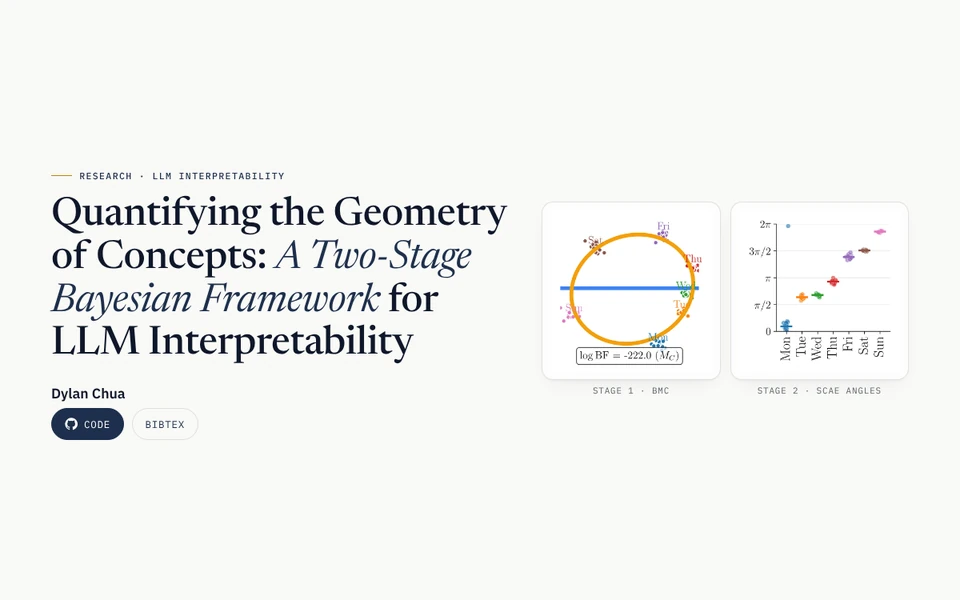
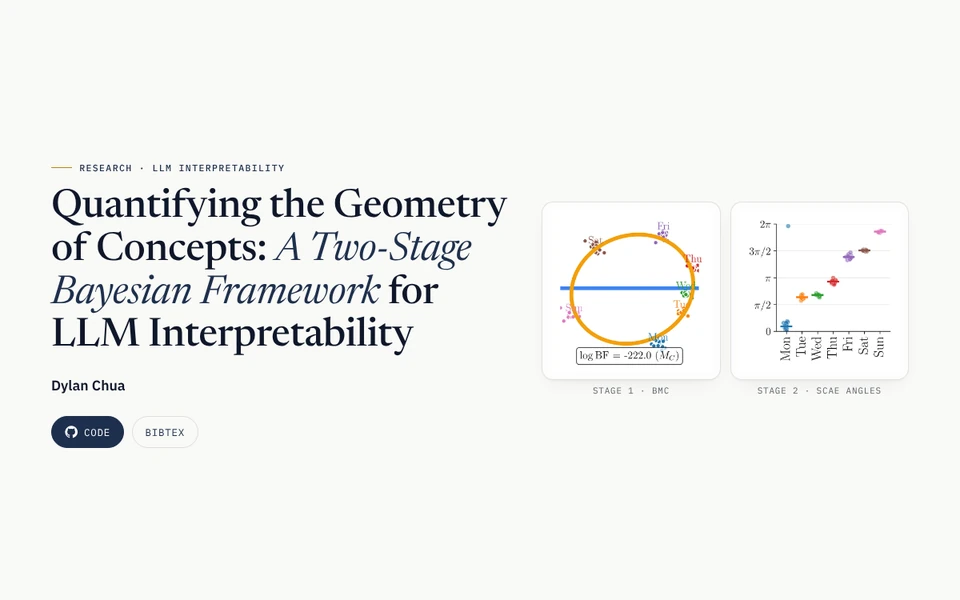
Update project page with content from the paper
Use the paper's abstract, synthetic (Table 1, 50 datasets) and LLM
(Table 2, Laplace/BIC and lambda sensitivity) results, the SCAE MAP
derivation and architecture figure, the discussion of why BMC favours
circular models, and the conclusion. Mark the size concept as
repository-only, finalise the BibTeX, and drop the affiliation
placeholder. The paper PDF itself is not added.

Claude-Session: https://claude.ai/code/session_0177LZe8kzwKYHQ6czokbSiz

Changed region(s): [[0.0312, 0.27, 0.5312, 0.6], [0.0312, 0.63, 0.1875, 0.75]]

diff --git a/docs/index.html b/docs/index.html
@@ -166,12 +166,16 @@ table { width: 100%; border-collapse: collapse; font-size: 0.95rem; }
 caption { caption-side: bottom; text-align: left; font-size: 0.85rem; color: var(--muted); padding: 0.75rem 1rem 0; }
 th, td { padding: 0.6rem 1rem; text-align: left; border-bottom: 1px solid var(--hairline); white-space: nowrap; }
 th { font-family: var(--mono); font-size: 0.7rem; font-weight: 500; letter-spacing: 0.1em; text-transform: uppercase; color: var(--navy); }
+th .katex, .label .katex, dt .katex { text-transform: none; }
 td.num { font-family: var(--mono); font-variant-numeric: tabular-nums; text-align: right; }
 th.num { text-align: right; }
 tr:last-child td { border-bottom: 0; }
 .verdict { display: inline-block; font-family: var(--mono); font-size: 0.7rem; letter-spacing: 0.06em; padding: 0.15rem 0.5rem; border-radius: 999px; }
 .v-c { background: rgba(243,156,18,0.18); color: #8a5300; }
 .v-l { background: rgba(59,130,246,0.14); color: #1d4ed8; }
+.v-x { background: rgba(15,23,42,0.07); color: rgba(15,23,42,0.7); }
+a.ref { font-family: var(--mono); font-size: 0.72rem; text-decoration: none; margin-left: 0.25rem; }
+.fig figcaption em { font-style: italic; }
 .group td { font-family: var(--mono); font-size: 0.7rem; letter-spacing: 0.12em; text-transform: uppercase; color: var(--gold); background: rgba(184,134,11,0.05); }
 
 /* ---------- figure explorer ---------- */
@@ -252,12 +256,10 @@ footer a { color: var(--navy); }
       <div>
         <p class="label">Research &middot; LLM interpretability</p>
         <h1>Quantifying the Geometry of Concepts: <em>A Two-Stage Bayesian Framework</em> for LLM Interpretability</h1>
-        <p class="authors"><b>Dylan Chua</b></p>
-        <!-- TODO: affiliation / venue -->
-        <p class="affil"><span class="tag" style="background:transparent;border:1px dashed rgba(184,134,11,0.7)">TODO: affiliation &amp; venue</span></p>
+        <p class="authors" style="margin-bottom:1.5rem"><b>Dylan Chua</b></p>
         <div class="buttons">
-          <!-- TODO: link the paper PDF once it is public (paper/ is git-ignored in this repo) -->
-          <span class="btn todo" title="TODO: paper PDF not yet in the repository" aria-disabled="true">
+          <!-- TODO: link docs/paper.pdf once a de-anonymised preprint build is ready to publish -->
+          <span class="btn todo" title="TODO: paper PDF not yet published" aria-disabled="true">
             <svg viewBox="0 0 24 24" fill="none" stroke="currentColor" stroke-width="1.7" aria-hidden="true"><path d="M14 3H6a2 2 0 0 0-2 2v14a2 2 0 0 0 2 2h12a2 2 0 0 0 2-2V9z"/><path d="M14 3v6h6"/></svg>
             Paper &middot; TODO
           </span>
@@ -292,8 +294,7 @@ footer a { color: var(--navy); }
     <div class="wrap">
       <p class="label">Abstract</p>
       <div class="prose">
-        <p class="todo-note"><strong>TODO</strong>The paper&rsquo;s abstract is not in the repository. The summary below is drawn from the README and code; replace it with the paper abstract.</p>
-        <p>Concepts inside large language models are often assumed to be <em>linear</em> directions, yet some concepts, such as days of the week or months of the year, are periodic and may live on a <em>circle</em>. This project provides tools to systematically evaluate and extract that geometric structure. In the first stage, <strong>Bayesian Model Comparison (BMC)</strong> fits a linear and a circular latent-variable model to a concept&rsquo;s activations with EM and compares them by their Laplace-approximated marginal likelihoods, giving a Bayes factor that quantifies which geometry the data supports. In the second stage, a <strong>Sparse Circular Autoencoder (SCAE)</strong> generalises the standard sparse autoencoder so that each dictionary atom is a two-dimensional circle rather than a single direction, letting periodic features be extracted together with an angle. The framework is validated on synthetic linear and circular data and applied to residual-stream activations of Llama-3-8B-Instruct.</p>
+        <p>The Linear Representation Hypothesis posits that neural networks encode concepts as single directions in activation space, though recent findings suggest certain features occupy circular manifolds. Current evidence for either geometry relies heavily on geometric heuristics, such as PCA or cosine similarity, which lack a rigorous probabilistic foundation. To address this, we introduce a two-stage framework to quantitatively evaluate and extract concept geometry. First, we define competing linear and circular generative models, employing Bayesian Model Comparison (BMC) to evaluate the evidence for each. Second, derived via MAP estimation from the circular model, we introduce the Sparse Circular Autoencoder (SCAE), a novel autoencoder architecture that extracts interpretable, feature-level angles. We apply this framework to Llama-3-8B-Instruct across four concepts (days, months, numbers, and sentiment). BMC decisively detects multi-dimensional curvature in all cases, while the SCAE successfully disambiguates true periodicity (days, months) from helical (numbers) and uninterpretable, artefactual curvature (sentiment). Together, this unified approach demonstrates how geometric heuristics can be replaced by rigorous Bayesian inference and matched architectural extraction.</p>
       </div>
     </div>
   </section>
@@ -302,17 +303,17 @@ footer a { color: var(--navy); }
   <section id="idea">
     <div class="wrap">
       <p class="label">Key idea</p>
-      <h2>Ask the data which shape it is, then extract it in that shape</h2>
+      <h2>Identify the geometry, then extract it with a matched autoencoder</h2>
       <div class="two" style="margin-top:1.5rem">
         <div class="card pad">
           <div class="stage-num">Stage 1</div>
           <h3>Bayesian Model Comparison</h3>
-          <p>Two generative models compete to explain the same activations: a <b>linear</b> model \(M_L\), where a scalar latent moves along a line, and a <b>circular</b> model \(M_C\), where an angle moves around an ellipse. The log Bayes factor \(\log \mathrm{BF} = \log p(\mathbf X\mid M_L) - \log p(\mathbf X\mid M_C)\) trades fit against complexity automatically: positive values favour linear, negative values favour circular.</p>
+          <p>Two generative models compete to explain the same activations: a <b>linear</b> model \(M_L\), where a scalar latent moves along a line, and a <b>circular</b> model \(M_C\), where an angle moves around an ellipse. The log Bayes factor \(\log \mathrm{BF} = \log p(\mathbf X\mid M_L) - \log p(\mathbf X\mid M_C)\) carries an automatic Occam penalty: a more complex model must fit the data substantially better to be preferred.</p>
         </div>
         <div class="card pad">
           <div class="stage-num">Stage 2</div>
           <h3>Sparse Circular Autoencoders</h3>
-          <p>A standard SAE explains each activation as a sparse sum of <em>directions</em>. The SCAE replaces each direction with a 2-D <em>plane</em>: the encoder projects onto each plane, a ReLU on the projection&rsquo;s norm gives a sparse magnitude, and its direction gives an angle \(\theta_k\). Periodic concepts can then be read off as positions on a learned circle.</p>
+          <p>Derived by MAP estimation from the circular model, the SCAE replaces each SAE direction \(\mathbf d_k\) with a 2-D subspace \(\mathbf W_k\). The encoder splits the projection into a sparse magnitude \(a_k\) and a unit direction \(\hat{\boldsymbol\phi}_k\), giving every feature an interpretable angle. Use an SAE for linear concepts and an SCAE for circular ones.</p>
         </div>
       </div>
     </div>
@@ -350,17 +351,22 @@ footer a { color: var(--navy); }
           <h3>Laplace-approximated evidence and the Bayes factor</h3>
           <p>Each model&rsquo;s marginal likelihood is approximated around the EM solution \(\hat{\boldsymbol\theta}\), with weakly informative Gaussian priors on \(\boldsymbol\mu\), \(\mathbf w\) (or \(\mathbf W\)) and \(\log\sigma^2\), and a diagonal Hessian \(\mathbf H\) of the negative log posterior computed by central finite differences:</p>
           <div class="eq">\[ \log p(\mathbf X \mid M) \approx \log p(\mathbf X \mid \hat{\boldsymbol\theta}, M) + \log p(\hat{\boldsymbol\theta}\mid M) + \frac{k}{2}\log 2\pi - \frac12 \log\det \mathbf H \]</div>
-          <div class="eq">\[ \log \mathrm{BF} = \log p(\mathbf X \mid M_L) - \log p(\mathbf X \mid M_C) \quad \begin{cases} > 0 & \text{favours linear } M_L \\ < 0 & \text{favours circular } M_C \end{cases} \]</div>
-          <p class="where">The \(-\tfrac12\log\det\mathbf H\) term is the Occam penalty: the circular model has \(m\) more parameters and must earn them through a better fit. A BIC approximation, \(\log p(\mathbf X\mid\hat{\boldsymbol\theta}) - \tfrac{k}{2}\log N\), is also implemented.</p>
+          <div class="eq">\[ \log \mathrm{BF} = \log p(\mathbf X \mid M_L) - \log p(\mathbf X \mid M_C) \quad \begin{cases} > 1 & \text{favours linear } M_L \\ < -1 & \text{favours circular } M_C \end{cases} \]</div>
+          <p class="where">The \(-\tfrac12\log\det\mathbf H\) term is the Occam penalty: the circular model has \(m\) more parameters and must earn them through a better fit. A BIC approximation, \(\log p(\mathbf X\mid\hat{\boldsymbol\theta}) - \tfrac{k}{2}\log N\), is used as a check that verdicts are not an artefact of the Laplace approximation. Both latent priors are the &ldquo;default&rdquo; ones for their domain (\(\mathcal N(0,1)\) on \(\mathbb R\), \(\mathcal U(0,2\pi)\) on \(S^1\)), so any difference in evidence is driven by geometry, not by the prior family.</p>
         </div>
 
         <div class="method-block">
           <h3>Sparse Circular Autoencoder</h3>
-          <p>For a baseline SAE with \(K\) features, \(\mathbf a = \mathrm{ReLU}\big(\mathbf W_{\text{enc}}(\mathbf x - \boldsymbol\mu) + \mathbf b\big)\) and \(\hat{\mathbf x} = \boldsymbol\mu + \mathbf W_{\text{dec}}\mathbf a\). In the SCAE, each feature \(k\) owns a decoder plane \(\mathbf W_k \in \mathbb R^{m\times 2}\), tied to its encoder:</p>
-          <div class="eq">\[ \mathbf p_k = \mathbf W_k^{\top}(\mathbf x - \boldsymbol\mu) \in \mathbb R^2, \qquad a_k = \mathrm{ReLU}\big(\lVert \mathbf p_k \rVert - b_k\big) \]</div>
-          <div class="eq">\[ \mathbf u_k = \frac{\mathbf p_k}{\lVert \mathbf p_k \rVert}, \qquad \theta_k = \operatorname{atan2}(u_{k,2}, u_{k,1}) \]</div>
-          <div class="eq">\[ \hat{\mathbf x} = \boldsymbol\mu + \sum_{k=1}^{K} a_k\, \mathbf W_k \mathbf u_k, \qquad \mathcal L = \frac{1}{m}\lVert \mathbf x - \hat{\mathbf x} \rVert_2^2 + \lambda \sum_{k=1}^{K} |a_k| \]</div>
-          <p class="where">Each active SCAE feature therefore traces a loop \(\boldsymbol\mu + a_k \mathbf W_k [\cos\theta, \sin\theta]^\top\) in activation space, and \(\theta_k\) reads off where on that loop an input lies. Both autoencoders are initialised from PCA directions (the SCAE takes consecutive pairs of principal components as its initial planes).</p>
+          <p>A standard SAE with \(K\) features is MAP estimation under \(\mathbf x = \boldsymbol\mu + \sum_k a_k \mathbf d_k + \boldsymbol\epsilon\) with a Laplace prior on \(a_k \ge 0\). Replacing each direction with a 2-D subspace and a circular latent \(z_k\) with a uniform prior gives the SCAE objective, identical in form to the SAE loss (MSE + \(\ell_1\)):</p>
+          <div class="eq">\[ \mathbf x = \boldsymbol\mu + \sum_{k=1}^{K} a_k \mathbf W_k \boldsymbol\phi(z_k) + \boldsymbol\epsilon \quad\Longrightarrow\quad \min_{\{a_k, z_k\}} \Big\lVert \mathbf x - \boldsymbol\mu - \sum_k a_k \mathbf W_k \boldsymbol\phi(z_k) \Big\rVert^2 + \lambda \sum_k a_k \]</div>
+          <p>The encoder amortises this optimisation:</p>
+          <div class="eq">\[ \mathbf p_k = \mathbf W_k^{\top}(\mathbf x - \boldsymbol\mu) \in \mathbb R^2, \qquad a_k = \mathrm{ReLU}\big(\lVert \mathbf p_k \rVert - b_k\big), \qquad \hat{\boldsymbol\phi}_k = \frac{\mathbf p_k}{\lVert \mathbf p_k \rVert} \]</div>
+          <div class="eq">\[ \hat{\mathbf x} = \boldsymbol\mu + \sum_{k=1}^{K} a_k\, \mathbf W_k \hat{\boldsymbol\phi}_k \]</div>
+          <figure class="fig" style="margin:1.25rem 0 0">
+            <div class="card" style="padding:0.75rem;background:#fff"><img loading="lazy" src="assets/fig/architecture.webp" width="1680" height="400" alt="Architecture diagram. Top: a standard SAE feature projects x minus mu onto a direction d_k, applies ReLU with bias b_k to get a_k, and decodes as a_k times d_k. Bottom: an SCAE feature projects onto a 2D subspace W_k to get p_k, splits it into its norm (passed through ReLU to give a_k) and its unit direction phi-hat_k, multiplies them and decodes through W_k."></div>
+            <figcaption>Architecture for a single feature \(k\). <em>Top:</em> a standard SAE projects onto a 1-D direction \(\mathbf d_k\) and gates with a ReLU. <em>Bottom:</em> the SCAE projects onto a 2-D subspace \(\mathbf W_k\), then splits into a magnitude (sparsity gate \(a_k\)) and a unit direction (angle \(\hat{\boldsymbol\phi}_k\)), recombined before decoding.</figcaption>
+          </figure>
+          <p class="where" style="margin-top:1rem">The unit vector \(\hat{\boldsymbol\phi}_k\) implicitly encodes the angle \(z_k = \operatorname{atan2}(p_{k,2}, p_{k,1})\), but the angle is never computed explicitly during training: gradients flow through the normalisation and the subspace bases, avoiding the discontinuity of \(\operatorname{atan2}\) at \(\pm\pi\).</p>
         </div>
       </div>
     </div>
@@ -374,10 +380,10 @@ footer a { color: var(--navy); }
       <div class="card pad" style="margin-top:1.5rem">
         <dl class="setup">
           <dt>Model</dt><dd>Meta-Llama-3-8B-Instruct, residual stream at layer 16, taken at the last sub-token of the target word.</dd>
-          <dt>Concepts</dt><dd><b>days</b> (7 labels &times; 15 templates), <b>months</b> (12 &times; 15), <b>numbers</b> 0&ndash;9 (10 &times; 15), and the ordinal controls <b>sentiment</b> (7 &times; 10, &ldquo;terrible&rdquo; &rarr; &ldquo;excellent&rdquo;) and <b>size</b> (6 &times; 15, &ldquo;tiny&rdquo; &rarr; &ldquo;enormous&rdquo;).</dd>
+          <dt>Concepts</dt><dd><b>days</b> (7 labels &times; 15 templates) and <b>months</b> (12 &times; 15), expected circular; <b>numbers</b> 0&ndash;9 (10 &times; 15), expected helical; <b>sentiment</b> (7 &times; 10, &ldquo;terrible&rdquo; &rarr; &ldquo;excellent&rdquo;), expected linear. The repository also includes a <b>size</b> concept (6 &times; 15, &ldquo;tiny&rdquo; &rarr; &ldquo;enormous&rdquo;) that is not reported in the paper.</dd>
           <dt>Preprocessing</dt><dd>Per-template mean subtraction to remove template common-mode variance, then PCA to \(m = 20\) dimensions.</dd>
-          <dt>Synthetic data</dt><dd>\(N = 200\) samples from the linear and circular generative models with \(\sigma^2 = 0.3\), in \(m = 3\) and \(m = 20\) dimensions (seed 7).</dd>
-          <dt>Autoencoders</dt><dd>\(K = 10\) features, 5000 epochs, batch size 64, learning rate \(3\times10^{-3}\), \(\lambda = 0.15\).</dd>
+          <dt>Synthetic data</dt><dd>50 datasets per setting, generated from the linear and circular models with parameters sampled from a standard normal, \(\sigma^2 = 0.3\) and \(N = 200\), in \(m = 3\) (visualisable) and \(m = 20\) (matching the LLM setting).</dd>
+          <dt>Autoencoders</dt><dd>\(K = 10\) features, 5000 epochs, Adam with a cosine schedule, batch size 64, learning rate \(3\times10^{-3}\), \(\lambda = 0.15\) (and \(0.05\) for the LLM sensitivity check). A feature is <em>alive</em> if it activates for more than 10% of samples.</dd>
           <dt>Compute</dt><dd>BMC fitting takes about a minute on a CPU; SAE/SCAE training about two minutes per concept on a single GPU.</dd>
         </dl>
       </div>
@@ -388,37 +394,61 @@ footer a { color: var(--navy); }
   <section id="results">
     <div class="wrap">
       <p class="label">Results</p>
-      <h2>Bayes factors</h2>
-      <p class="lede">Log Bayes factors from the fitted models in the repository&rsquo;s <code>figures/bmc/</code> outputs. Negative values favour the circular model.</p>
+      <h2>Synthetic validation</h2>
+      <p class="lede">On 50 synthetic datasets per setting, BMC favours the ground-truth model every time, while the SAE reconstructs better than the SCAE every time, even on circular data. Reconstruction error cannot identify geometry; that is the motivation for the two-stage approach.</p>
 
       <div class="card table-wrap" style="margin-top:1.5rem">
         <table>
-          <thead><tr><th>Dataset</th><th class="num">\(m\)</th><th class="num">log BF</th><th>Favoured</th></tr></thead>
+          <thead>
+            <tr><th></th><th></th><th class="num" colspan="2" style="text-align:center">BMC</th><th class="num" colspan="3" style="text-align:center">Autoencoder MSE (\(\times10^{-3}\))</th></tr>
+            <tr><th>\(m\)</th><th>Ground truth</th><th class="num">log BF</th><th>Favoured</th><th class="num">SAE</th><th class="num">SCAE</th><th>Favoured</th></tr>
+          </thead>
           <tbody>
-            <tr class="group"><td colspan="4">Synthetic (ground truth known)</td></tr>
-            <tr><td>Circular</td><td class="num">3</td><td class="num">&minus;155.4</td><td><span class="verdict v-c">\(M_C\) circular</span></td></tr>
-            <tr><td>Circular</td><td class="num">20</td><td class="num">&minus;405.2</td><td><span class="verdict v-c">\(M_C\) circular</span></td></tr>
-            <tr><td>Linear</td><td class="num">3</td><td class="num">+42.5</td><td><span class="verdict v-l">\(M_L\) linear</span></td></tr>
-            <tr><td>Linear</td><td class="num">20</td><td class="num">+37.0</td><td><span class="verdict v-l">\(M_L\) linear</span></td></tr>
-            <tr class="group"><td colspan="4">Llama-3-8B-Instruct &middot; layer 16</td></tr>
-            <tr><td>Days of the week</td><td class="num">20</td><td class="num">&minus;222.0</td><td><span class="verdict v-c">\(M_C\) circular</span></td></tr>
-            <tr><td>Months of the year</td><td class="num">20</td><td class="num">&minus;222.4</td><td><span class="verdict v-c">\(M_C\) circular</span></td></tr>
-            <tr><td>Numbers 0&ndash;9</td><td class="num">20</td><td class="num">&minus;166.9</td><td><span class="verdict v-c">\(M_C\) circular</span></td></tr>
-            <tr><td>Sentiment (control)</td><td class="num">20</td><td class="num">&minus;185.1</td><td><span class="verdict v-c">\(M_C\) circular</span></td></tr>
-            <tr><td>Size (control)</td><td class="num">20</td><td class="num">&minus;229.6</td><td><span class="verdict v-c">\(M_C\) circular</span></td></tr>
+            <tr><td>3</td><td>Linear</td><td class="num">+45.8 &plusmn; 1.8</td><td><span class="verdict v-l">Linear &check;</span></td><td class="num">71 &plusmn; 5</td><td class="num">111 &plusmn; 1</td><td><span class="verdict v-l">Linear &check;</span></td></tr>
+            <tr><td>3</td><td>Circular</td><td class="num">&minus;148.5 &plusmn; 1.7</td><td><span class="verdict v-c">Circular &check;</span></td><td class="num">4.9 &plusmn; 0.1</td><td class="num">127 &plusmn; 1</td><td><span class="verdict v-x">Linear &cross;</span></td></tr>
+            <tr><td>20</td><td>Linear</td><td class="num">+58.8 &plusmn; 1.8</td><td><span class="verdict v-l">Linear &check;</span></td><td class="num">138.3 &plusmn; 0.5</td><td class="num">331 &plusmn; 1</td><td><span class="verdict v-l">Linear &check;</span></td></tr>
+            <tr><td>20</td><td>Circular</td><td class="num">&minus;375.2 &plusmn; 3.6</td><td><span class="verdict v-c">Circular &check;</span></td><td class="num">130.8 &plusmn; 0.8</td><td class="num">342 &plusmn; 2</td><td><span class="verdict v-x">Linear &cross;</span></td></tr>
           </tbody>
-          <caption>Single runs, as annotated on the figures. Multi-seed means and standard deviations are produced by <code>scripts/04a_run_bmc_synthetic_multiple.py</code> but are not stored in the repository.</caption>
+          <caption>Table 1 of the paper: mean &plusmn; standard deviation over 50 synthetic datasets. &ldquo;Favoured&rdquo; for the autoencoders is the model with lower MSE (SAE &rarr; linear).</caption>
         </table>
       </div>
 
       <div class="two" style="margin-top:1.5rem">
         <div class="card pad">
-          <h3>Synthetic data: correct model recovered</h3>
-          <p>On all four synthetic datasets the Bayes factor picks the generating model: circular data is strongly favoured as circular, and linear data as linear, in both 3 and 20 dimensions.</p>
+          <h3>BMC recovers the true geometry</h3>
+          <p>On linear data, \(M_C\) fits a degenerate ellipse that collapses onto the line, yet BMC correctly favours \(M_L\) because the Occam penalty punishes the unused second basis direction. On circular data the evidence is decisive, and stronger in \(m = 20\) than \(m = 3\) because \(M_C\)&rsquo;s extra \(m\) parameters incur a larger penalty that only a genuine circle can overcome.</p>
         </div>
         <div class="card pad">
-          <h3>Llama 3: every concept favours a circle</h3>
-          <p>Days, months and numbers all strongly favour \(M_C\). So do the two ordinal controls, sentiment and size, which the configuration lists as expected to be linear. With these settings, a negative Bayes factor alone therefore does not separate periodic from ordinal concepts.</p>
+          <h3>A lower MSE does not imply the right geometry</h3>
+          <p>The SAE spreads activation across many features (\(L_0 \approx 7\) in \(m = 20\)) while the SCAE collapses to a single alive feature (\(L_0 \approx 1\)), because one 2-D feature can absorb enough variance to push the others below the ReLU threshold. The SAE&rsquo;s many cooperating atoms reconstruct better even when the manifold is circular. BMC is needed because it penalises extra parameters instead of rewarding capacity.</p>
+        </div>
+      </div>
+
+      <h2 style="margin-top:3rem">Llama-3-8B-Instruct, layer 16</h2>
+      <div class="card table-wrap" style="margin-top:1.25rem">
+        <table>
+          <thead>
+            <tr><th></th><th></th><th class="num" colspan="3" style="text-align:center">log BF</th><th class="num" colspan="2" style="text-align:center">&Delta;MSE (\(\times10^{-3}\))</th></tr>
+            <tr><th>Concept</th><th>Expected</th><th class="num">Laplace</th><th class="num">BIC</th><th>Favoured</th><th class="num">\(\lambda = 0.15\)</th><th class="num">\(\lambda = 0.05\)</th></tr>
+          </thead>
+          <tbody>
+            <tr><td>Days</td><td>Circular <a class="ref" href="https://arxiv.org/abs/2405.14860">[Engels+]</a></td><td class="num">&minus;222.0</td><td class="num">&minus;211.8</td><td><span class="verdict v-c">Circular</span></td><td class="num">&minus;68.7</td><td class="num">+8.65</td></tr>
+            <tr><td>Months</td><td>Circular <a class="ref" href="https://arxiv.org/abs/2405.14860">[Engels+]</a></td><td class="num">&minus;222.4</td><td class="num">&minus;210.0</td><td><span class="verdict v-c">Circular</span></td><td class="num">&minus;74.2</td><td class="num">+17.1</td></tr>
+            <tr><td>Numbers 0&ndash;9</td><td>Helical <a class="ref" href="https://transformer-circuits.pub/2025/linebreaks/index.html">[Anthropic]</a></td><td class="num">&minus;166.9</td><td class="num">&minus;151.1</td><td><span class="verdict v-c">Circular</span></td><td class="num">&minus;37.1</td><td class="num">+32.0</td></tr>
+            <tr><td>Sentiment</td><td>Linear <a class="ref" href="https://arxiv.org/abs/2310.15154">[Tigges+]</a></td><td class="num">&minus;185.1</td><td class="num">&minus;169.1</td><td><span class="verdict v-c">Circular</span></td><td class="num">&minus;73.0</td><td class="num">+42.0</td></tr>
+          </tbody>
+          <caption>Table 2 of the paper. &Delta;MSE = MSE(SAE) &minus; MSE(SCAE): positive means the SCAE reconstructs better. \(K = 10\) features, 5000 epochs. The repository&rsquo;s size concept (not in the paper) also favours \(M_C\), with a Laplace log BF of &minus;229.6.</caption>
+        </table>
+      </div>
+
+      <div class="two" style="margin-top:1.5rem">
+        <div class="card pad">
+          <h3>BMC detects curvature everywhere</h3>
+          <p>\(M_C\) is overwhelmingly favoured for all four concepts, matching prior findings for periodic and helical concepts. The circular verdict for sentiment, expected to be linear, is unexpected: in the top three PCs, sentiment shows genuine multi-dimensional spread beyond its dominant linear direction, which the rank-2 \(M_C\) captures and the rank-1 \(M_L\) cannot. BIC gives nearly identical verdicts, so this is not an artefact of the Laplace approximation.</p>
+        </div>
+        <div class="card pad">
+          <h3>Why does BMC favour circles for every concept?</h3>
+          <p><b>Rank-1 vs. rank-2.</b> \(M_L\) has covariance \(\mathbf w\mathbf w^\top + \sigma^2\mathbf I\); \(M_C\) has \(\mathbf W\mathbf W^\top + \sigma^2\mathbf I\). Concepts with variance across several PCs prefer \(M_C\) whenever the better fit outweighs the complexity penalty, so BMC tests dimensionality alongside geometry. <b>Isotropic noise.</b> Real activations are unlikely to have isotropic residuals, and \(M_C\)&rsquo;s extra parameters may absorb structured variance unrelated to circular geometry.</p>
         </div>
       </div>
 
@@ -435,7 +465,7 @@ footer a { color: var(--navy); }
         <figure class="fig"><div class="card"><img loading="lazy" src="assets/fig/bmc_months.webp" width="720" height="720" alt="Months of the year arranged around a ring; log BF = -222.4."></div><figcaption><b>Months</b></figcaption></figure>
         <figure class="fig"><div class="card"><img loading="lazy" src="assets/fig/bmc_numbers.webp" width="720" height="720" alt="Digits 0 to 9 arranged along an arc; log BF = -166.9."></div><figcaption><b>Numbers</b></figcaption></figure>
         <figure class="fig"><div class="card"><img loading="lazy" src="assets/fig/bmc_sentiment.webp" width="720" height="720" alt="Sentiment words with fitted circle and line; log BF = -185.1."></div><figcaption><b>Sentiment</b></figcaption></figure>
-        <figure class="fig"><div class="card"><img loading="lazy" src="assets/fig/bmc_size.webp" width="720" height="720" alt="Size words with fitted circle and line; log BF = -229.6."></div><figcaption><b>Size</b></figcaption></figure>
+        <figure class="fig"><div class="card"><img loading="lazy" src="assets/fig/bmc_size.webp" width="720" height="720" alt="Size words with fitted circle and line; log BF = -229.6."></div><figcaption><b>Size</b>Repository only; not in the paper.</figcaption></figure>
       </div>
     </div>
   </section>
@@ -443,15 +473,15 @@ footer a { color: var(--navy); }
   <section id="scae">
     <div class="wrap">
       <p class="label">Results &middot; Stage 2</p>
-      <h2>Extracting periodic features with SCAEs</h2>
-      <p class="lede">Choose a concept to compare the standard SAE&rsquo;s directions with the SCAE&rsquo;s learned circles, and to see the angle the SCAE assigns to each label.</p>
+      <h2>SCAE angles separate periodic, helical and artefactual curvature</h2>
+      <p class="lede">Where BMC says &ldquo;curved&rdquo; for every concept, the angles recovered by the SCAE tell the cases apart. Choose a concept to compare the SAE&rsquo;s directions with the SCAE&rsquo;s learned circles and the angle it assigns to each label.</p>
 
       <div class="chips" role="tablist" aria-label="Concept" style="margin-top:1.5rem">
         <button class="chip" role="tab" aria-selected="true" data-c="days">Days</button>
         <button class="chip" role="tab" aria-selected="false" data-c="months">Months</button>
         <button class="chip" role="tab" aria-selected="false" data-c="numbers">Numbers</button>
         <button class="chip" role="tab" aria-selected="false" data-c="sentiment">Sentiment</button>
-        <button class="chip" role="tab" aria-selected="false" data-c="size">Size</button>
+        <button class="chip" role="tab" aria-selected="false" data-c="size">Size (repo only)</button>
       </div>
       <div class="explorer-grid" id="explorer" role="tabpanel">
         <figure class="fig"><div class="card"><img data-k="sae" src="assets/fig/sae_days.webp" width="720" height="720" alt="Standard SAE decoder directions for days."></div><figcaption><b>SAE</b>Decoder directions (arrows), one per active feature.</figcaption></figure>
@@ -460,33 +490,39 @@ footer a { color: var(--navy); }
         <figure class="fig"><div class="card"><img data-k="strip" src="assets/fig/strip_days.webp" width="720" height="720" alt="Strip plot of SCAE angles per label for days."></div><figcaption><b>Angle by label</b>Ordered by the concept&rsquo;s natural order.</figcaption></figure>
       </div>
 
-      <div class="two" style="margin-top:1.75rem">
+      <div class="three" style="margin-top:1.75rem">
         <div class="card pad">
-          <h3>Angles follow cyclic order</h3>
-          <p>For <b>days</b>, the SCAE angle increases monotonically from Monday to Sunday around the circle. For <b>months</b>, angles increase from January to July, wrap past \(2\pi\) at August, and increase again through December, preserving the cyclic order up to the wrap point (January and February overlap).</p>
+          <div class="stage-num">Days &middot; Months</div>
+          <h3>Actual periodicity</h3>
+          <p>Angles are well separated, semantically ordered and wrap around the circle.</p>
         </div>
         <div class="card pad">
-          <h3>Reconstruction vs. sparsity</h3>
-          <p>In every run shown the SCAE has higher reconstruction MSE and higher L1 than the standard SAE with the same \(K\) and \(\lambda\) (table below). Its benefit is structural: each feature carries an angle as well as a magnitude, so a periodic concept can be read as a position on a learned circle.</p>
+          <div class="stage-num">Numbers</div>
+          <h3>Helical structure</h3>
+          <p>Angles are monotonic but do not wrap, consistent with the circular component of a helix.</p>
+        </div>
+        <div class="card pad">
+          <div class="stage-num">Sentiment</div>
+          <h3>Non-periodic curvature</h3>
+          <p>Angles lack a clear semantic ordering, consistent with the curvature being artefactual rather than a meaningful circle.</p>
         </div>
       </div>
 
-      <div class="card table-wrap" style="margin-top:1.25rem">
-        <table>
-          <thead><tr><th>Dataset</th><th class="num">SAE MSE</th><th class="num">SAE L1</th><th class="num">SCAE MSE</th><th class="num">SCAE L1</th></tr></thead>
-          <tbody>
-            <tr><td>Synthetic circular, \(m=3\)</td><td class="num">0.01</td><td class="num">0.29</td><td class="num">0.12</td><td class="num">1.49</td></tr>
-            <tr><td>Synthetic circular, \(m=20\)</td><td class="num">0.12</td><td class="num">0.33</td><td class="num">0.35</td><td class="num">0.53</td></tr>
-            <tr><td>Synthetic linear, \(m=3\)</td><td class="num">0.08</td><td class="num">0.20</td><td class="num">0.10</td><td class="num">1.31</td></tr>
-            <tr><td>Synthetic linear, \(m=20\)</td><td class="num">0.13</td><td class="num">0.25</td><td class="num">0.32</td><td class="num">0.50</td></tr>
-            <tr><td>Days</td><td class="num">0.05</td><td class="num">0.23</td><td class="num">0.12</td><td class="num">0.70</td></tr>
-            <tr><td>Months</td><td class="num">0.06</td><td class="num">0.14</td><td class="num">0.14</td><td class="num">0.57</td></tr>
-            <tr><td>Numbers</td><td class="num">0.09</td><td class="num">0.18</td><td class="num">0.13</td><td class="num">0.95</td></tr>
-            <tr><td>Sentiment</td><td class="num">0.12</td><td class="num">0.41</td><td class="num">0.19</td><td class="num">1.60</td></tr>
-            <tr><td>Size</td><td class="num">0.16</td><td class="num">0.40</td><td class="num">0.19</td><td class="num">1.60</td></tr>
-          </tbody>
-          <caption>Evaluation metrics as annotated on <code>figures/sae/*/fitted_*_2d.png</code>: mean squared error and mean per-sample L1 norm of the feature activations.</caption>
-        </table>
+      <div class="card pad" style="margin-top:1.25rem">
+        <h3>Reconstruction depends on \(\lambda\)</h3>
+        <p>At \(\lambda = 0.15\) the SAE achieves lower MSE for every concept, but reducing \(\lambda\) to \(0.05\) restores the SCAE&rsquo;s advantage (Table 2), so the gap reflects \(\lambda\)-sensitivity rather than data complexity: a higher \(\lambda\) leads to over-sparsity and worsens MSE. While SAE features cluster values semantically, they have no notion of periodicity and fracture a concept across several features. The SCAE captures periodic structure in a single feature with an interpretable angle.</p>
+      </div>
+    </div>
+  </section>
+
+  <!-- ================= CONCLUSION ================= -->
+  <section id="conclusion">
+    <div class="wrap">
+      <p class="label">Conclusion</p>
+      <h2>From geometric heuristics to Bayesian evidence</h2>
+      <div class="prose">
+        <p>Framing the linear-vs-circular debate as Bayesian model comparison gives a quantitative criterion where PCA plots and cosine similarities could only suggest one. Applied to LLM activations, BMC favoured circular structure universally, exposing a limitation of the binary model family: the rank-2 circular model readily absorbs generic multi-dimensional structure. Pairing BMC with a matched autoencoder addresses this, since the SCAE-recovered angles discriminate true periodicity (days, months), helical structure (numbers) and non-periodic curvature (sentiment).</p>
+        <p class="where">Future work: expand the generative family to arc, helical or polynomial models and allow flexible noise covariance, to isolate curvature without implying strict periodicity. Explicit manifolds could also enable activation steering, such as smoothly rotating predictions around a periodic feature.</p>
       </div>
     </div>
   </section>
@@ -520,15 +556,15 @@ python scripts/07_plot_sae.py</code></pre>
     <div class="wrap">
       <p class="label">Citation</p>
       <h2>BibTeX</h2>
-      <p class="todo-note"><strong>TODO</strong>Venue and year are not recorded in the repository; update the entry once the paper is public.</p>
       <div class="card bib">
         <button class="copy" type="button" data-copy="bibtex">Copy</button>
-<pre id="bibtex"><code>@misc{chua_geometry_of_concepts,
+<pre id="bibtex"><code>@misc{chua2026geometry,
   title        = {Quantifying the Geometry of Concepts: A Two-Stage
                   Bayesian Framework for LLM Interpretability},
   author       = {Chua, Dylan},
-  howpublished = {\url{https://github.com/thedylone/bayesian-llm-geometry}},
-  note         = {TODO: venue and year}
+  year         = {2026},
+  howpublished = {\url{https://projects.thedylone.com/bayesian-llm-geometry/}},
+  note         = {Code: \url{https://github.com/thedylone/bayesian-llm-geometry}}
 }</code></pre>
       </div>
     </div>
